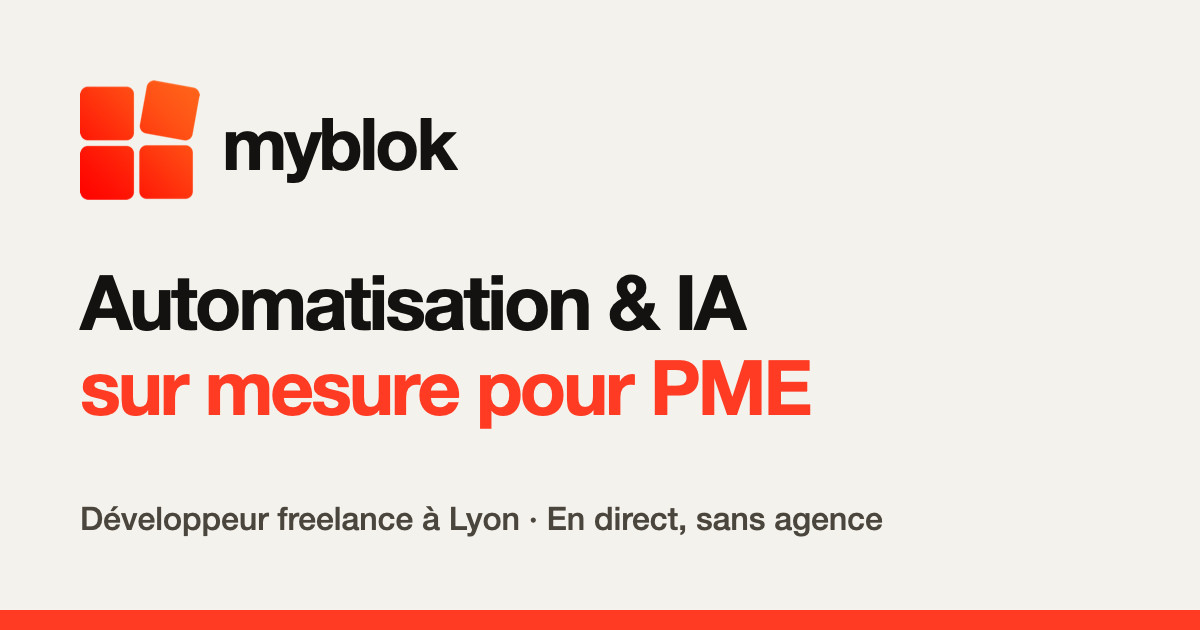
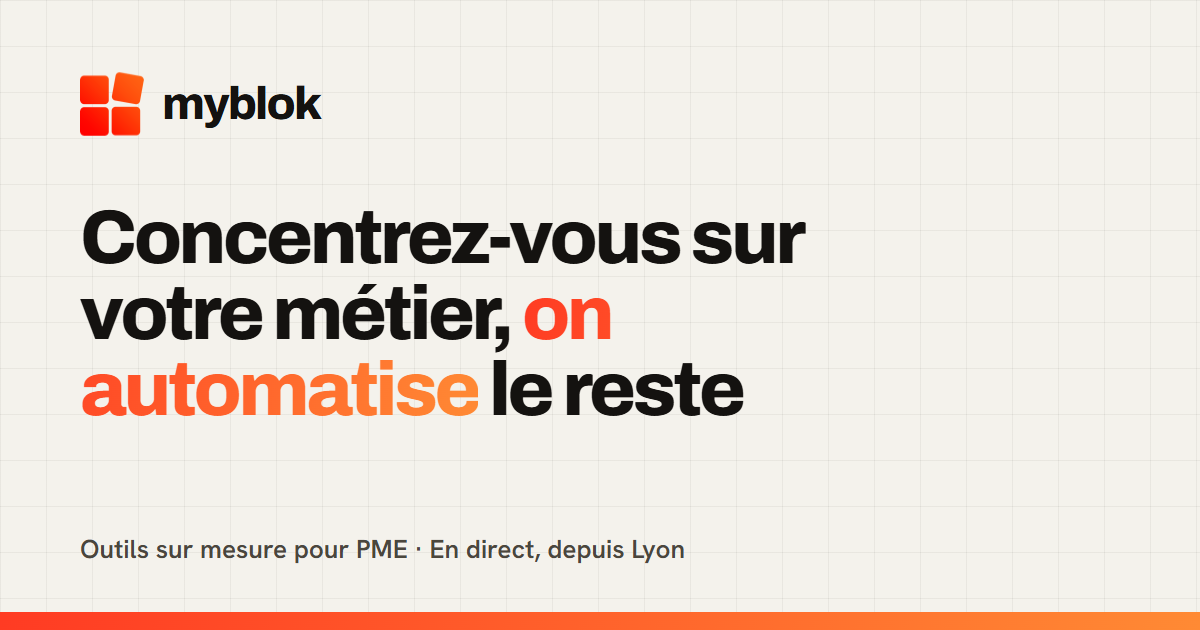
feat: update content for bilingual support and improve navigation structure

Changed region(s): [[0.0617, 0.1206, 0.6783, 0.6937], [0.0617, 0.7841, 0.74, 0.9048], [0.0, 0.9651, 1.0, 1.0]]

diff --git a/src/content/fr.js b/src/content/fr.js
@@ -1,13 +1,15 @@
 import { LEGAL } from './legal.js'
 
 export default {
+  // Ancres des sections de l'accueil (/fr#offre…). Ne pas renommer : d'anciens liens y pointent.
+  anchors: { top: 'top', offer: 'offre', realisations: 'realisations', process: 'process', about: 'apropos', faq: 'faq', contact: 'contact' },
   nav: {
     // L'entrée « realisations » n'apparaît que s'il y a au moins un projet dans realisations.js.
     links: [
-      { id: 'offre', label: "Ce qu'on fait" },
-      { id: 'realisations', label: 'Réalisations' },
-      { id: 'process', label: 'Comment ça marche' },
-      { id: 'faq', label: 'FAQ' },
+      { key: 'offer', label: "Ce qu'on fait" },
+      { key: 'realisations', label: 'Réalisations' },
+      { key: 'process', label: 'Comment ça se passe' },
+      { key: 'faq', label: 'FAQ' },
     ],
     cta: 'Nous contacter',
   },
@@ -24,14 +26,14 @@ export default {
   },
   problem: {
     title: 'Ça vous parle ?',
-    intro: "Des situations qu'on retrouve dans presque toutes les PME.",
+    intro: 'Vous vous reconnaissez sûrement dans l’une d’elles : on les retrouve dans presque toutes les PME.',
     items: [
       { icon: 'repeat', title: 'Les mêmes infos tapées deux fois', desc: 'Une commande arrive par mail, vous la recopiez dans le logiciel de facturation, puis dans un tableau Excel.' },
       { icon: 'sheet', title: 'Le fichier Excel qui fait tout tourner', desc: 'Un tableur bricolé au fil des années, que seule une personne sait vraiment utiliser.' },
       { icon: 'bell', title: 'Les relances à la main', desc: 'Devis en attente, factures impayées, rappels de rendez-vous : tout repose sur votre mémoire.' },
       { icon: 'puzzle', title: 'Le logiciel qui ne colle pas', desc: 'Vous payez un abonnement pour un outil qui vous oblige à contourner sa logique tous les jours.' },
     ],
-    foot: "Ces heures-là peuvent être récupérées. C'est notre métier.",
+    foot: "Tout ce temps-là peut être récupéré. C'est notre métier.",
   },
   offer: {
     title: "Ce qu'on fait",
@@ -108,6 +110,7 @@ export default {
   contact: {
     title: 'Parlons de votre besoin',
     subtitle: 'Décrivez votre situation en deux lignes. On vous répond sous 48 h.',
+    next: 'Ensuite, on vous propose un appel de 30 minutes, gratuit et sans engagement, pour bien comprendre votre besoin.',
     name: 'Votre nom',
     company: 'Votre entreprise',
     optional: 'facultatif',
@@ -149,7 +152,7 @@ export default {
         ['Données collectées', 'Votre nom, votre adresse email, le nom de votre entreprise si vous le donnez, et le contenu de votre message. Rien d’autre : aucune donnée récupérée à votre insu.'],
         ['Finalité', 'Répondre à votre demande et, si ça débouche sur un projet, préparer une proposition. Pas de prospection non sollicitée, pas de revente, pas de fichier partagé avec qui que ce soit.'],
         ['Base légale', 'Votre demande elle-même : l’exécution de mesures précontractuelles prises à votre initiative (article 6.1.b du RGPD).'],
-        ['Destinataires', `Baptiste, et personne d’autre. L’acheminement de l’email passe par notre prestataire d’envoi ${LEGAL.mailProvider}, encadré par un accord de sous-traitance et les clauses contractuelles types de la Commission européenne.`],
+        ['Destinataires', `L’équipe myblok (deux personnes), et personne d’autre. L’acheminement de l’email passe par notre prestataire d’envoi ${LEGAL.mailProvider}, encadré par un accord de sous-traitance et les clauses contractuelles types de la Commission européenne.`],
         ['Hébergement', 'Le site et le formulaire sont hébergés par Vercel Inc. (États-Unis), sous le même encadrement contractuel.'],
         ['Conservation', 'Trois ans à compter de notre dernier échange, puis suppression. Si une prestation démarre, les données liées sont gardées le temps de la mission et des obligations comptables et légales qui en découlent.'],
         ['Cookies et mesure d’audience', 'Aucun cookie. On mesure la fréquentation du site avec Vercel Web Analytics, de façon anonyme et agrégée : pas de cookie, pas d’identification personnelle, pas de suivi d’un site à l’autre. Pas de publicité ni de bouton de réseau social. Seul votre choix de thème est mémorisé dans votre navigateur : cette information ne quitte jamais votre appareil et ne nécessite pas de consentement.'],

diff --git a/src/content/en.js b/src/content/en.js
@@ -1,12 +1,13 @@
 import { LEGAL } from './legal.js'
 
 export default {
+  anchors: { top: 'top', offer: 'services', realisations: 'projects', process: 'how-it-works', about: 'about', faq: 'faq', contact: 'contact' },
   nav: {
     links: [
-      { id: 'offre', label: 'What we do' },
-      { id: 'realisations', label: 'Projects' },
-      { id: 'process', label: 'How it works' },
-      { id: 'faq', label: 'FAQ' },
+      { key: 'offer', label: 'What we do' },
+      { key: 'realisations', label: 'Projects' },
+      { key: 'process', label: 'How it works' },
+      { key: 'faq', label: 'FAQ' },
     ],
     cta: 'Contact us',
   },
@@ -22,14 +23,14 @@ export default {
   },
   problem: {
     title: 'Sound familiar?',
-    intro: 'Situations we see in almost every small business.',
+    intro: 'Chances are you recognise one of them: we see them in almost every small business.',
     items: [
       { icon: 'repeat', title: 'The same data typed twice', desc: 'An order comes in by email, you copy it into your invoicing software, then into an Excel sheet.' },
       { icon: 'sheet', title: 'The Excel file that runs everything', desc: 'A spreadsheet patched together over the years that only one person really knows how to use.' },
       { icon: 'bell', title: 'Chasing everything by hand', desc: 'Pending quotes, unpaid invoices, appointment reminders: it all relies on your memory.' },
       { icon: 'puzzle', title: "Software that doesn't fit", desc: 'You pay a subscription for a tool you have to work around every single day.' },
     ],
-    foot: "Those hours can be won back. That's what we do.",
+    foot: "All that time can be won back. That's what we do.",
   },
   offer: {
     title: 'What we do',
@@ -106,6 +107,7 @@ export default {
   contact: {
     title: "Let's talk about your needs",
     subtitle: 'Describe your situation in two lines. We reply within 48 hours.',
+    next: 'Then we suggest a free, no-commitment 30-minute call to properly understand your need.',
     name: 'Your name',
     company: 'Your company',
     optional: 'optional',
@@ -147,7 +149,7 @@ export default {
         ['Data collected', 'Your name, your email address, your company name if you provide it, and the content of your message. Nothing else: no data gathered without your knowledge.'],
         ['Purpose', 'Answering your enquiry and, if it turns into a project, preparing a proposal. No unsolicited marketing, no resale, no list shared with anyone.'],
         ['Legal basis', 'Your own request: steps taken at your request prior to entering into a contract (Article 6(1)(b) GDPR).'],
-        ['Recipients', `Baptiste, and no one else. The email is delivered through our sending provider ${LEGAL.mailProvider}, covered by a data processing agreement and the European Commission’s standard contractual clauses.`],
+        ['Recipients', `The myblok team (two people), and no one else. The email is delivered through our sending provider ${LEGAL.mailProvider}, covered by a data processing agreement and the European Commission’s standard contractual clauses.`],
         ['Hosting', 'The site and the form are hosted by Vercel Inc. (USA), under the same contractual framework.'],
         ['Retention', 'Three years from our last exchange, then deletion. If an engagement starts, the related data is kept for the duration of the work and the accounting and legal obligations that follow.'],
         ['Cookies and analytics', 'No cookies. We measure site traffic with Vercel Web Analytics, anonymously and in aggregate: no cookies, no personal identification, no tracking across sites. No advertising, no social widgets. Only your theme choice is stored in your browser: it never leaves your device and requires no consent.'],

diff --git a/src/seo.js b/src/seo.js
@@ -8,6 +8,8 @@ export const SITE_URL = 'https://www.myblok.fr'
 
 const OG_LOCALE = { fr: 'fr_FR', en: 'en_GB' }
 const PRICE_RANGE = { fr: 'Sur devis', en: 'Quote-based' }
+// Share image per language (public/), showing the hero title.
+const OG_IMAGE = { fr: '/og-image.png', en: '/og-image-en.png' }
 
 const escapeAttr = (value) =>
   String(value).replaceAll('&', '&amp;').replaceAll('"', '&quot;').replaceAll('<', '&lt;').replaceAll('>', '&gt;')
@@ -42,7 +44,7 @@ function structuredData(t, url) {
         description: t.meta.home.description,
         url,
         logo: `${SITE_URL}/icon-512.png`,
-        image: `${SITE_URL}/og-image.png`,
+        image: SITE_URL + OG_IMAGE[t.lang],
         email: LEGAL.email,
         priceRange: PRICE_RANGE[t.lang],
         address: { '@type': 'PostalAddress', addressLocality: 'Lyon', addressRegion: 'Auvergne-Rhône-Alpes', addressCountry: 'FR' },
@@ -66,17 +68,20 @@ function structuredData(t, url) {
 export function headTags(route) {
   const t = content[route.lang]
   const { title, description } = pageMeta(route, t)
+  const imageAlt = `myblok — ${t.hero.pre} ${t.hero.grad} ${t.hero.post}`
   const tags = [
     `<title>${escapeAttr(title)}</title>`,
     meta('name', 'description', description),
     meta('property', 'og:title', title),
     meta('property', 'og:description', description),
-    // Same share image on every page: describe the image, not the page.
-    meta('property', 'og:image:alt', t.meta.home.title),
+    meta('property', 'og:image', SITE_URL + OG_IMAGE[route.lang]),
+    // Same share image on every page of a language: describe the image, not the page.
+    meta('property', 'og:image:alt', imageAlt),
     meta('property', 'og:locale', OG_LOCALE[route.lang]),
     meta('name', 'twitter:title', title),
     meta('name', 'twitter:description', description),
-    meta('name', 'twitter:image:alt', t.meta.home.title),
+    meta('name', 'twitter:image', SITE_URL + OG_IMAGE[route.lang]),
+    meta('name', 'twitter:image:alt', imageAlt),
   ]
 
   if (route.name === 'notFound') {

diff --git a/src/pages/NotFound.jsx b/src/pages/NotFound.jsx
@@ -1,16 +1,29 @@
 import { Icon } from '../components/common.jsx'
-import { pagePath } from '../routes.js'
+import { content } from '../content/index.js'
+import { LANGS, pagePath } from '../routes.js'
 
+// Vercel serves one 404 page for the whole site, whatever the language of the
+// URL: the message is shown in every language, the current one first.
 export default function NotFound({ t }) {
-  const { notFound } = t
+  const langs = [t.lang, ...LANGS.filter((l) => l !== t.lang)]
   return (
     <section className="section page" aria-labelledby="page-title">
       <div className="container">
-        <h1 id="page-title" className="section-title">{notFound.title}</h1>
-        <p className="section-intro">{notFound.text}</p>
-        <p className="page-actions">
-          <a href={pagePath('home', t.lang)} className="btn btn-primary">{notFound.back} <Icon.arrow /></a>
-        </p>
+        {langs.map((lang, i) => {
+          const { notFound } = content[lang]
+          const Title = i === 0 ? 'h1' : 'h2'
+          return (
+            <div key={lang} lang={lang} className={i === 0 ? '' : 'page-alt-lang'}>
+              <Title id={i === 0 ? 'page-title' : undefined} className="section-title">{notFound.title}</Title>
+              <p className="section-intro">{notFound.text}</p>
+              <p className="page-actions">
+                <a href={pagePath('home', lang)} className={i === 0 ? 'btn btn-primary' : 'btn btn-ghost'}>
+                  {notFound.back} <Icon.arrow />
+                </a>
+              </p>
+            </div>
+          )
+        })}
       </div>
     </section>
   )

diff --git a/index.html b/index.html
@@ -20,24 +20,15 @@
     <link rel="apple-touch-icon" href="/apple-touch-icon.png" />
     <link rel="manifest" href="/site.webmanifest" />
 
-    <link rel="preconnect" href="https://fonts.googleapis.com" />
-    <link rel="preconnect" href="https://fonts.gstatic.com" crossorigin />
-    <link
-      href="https://fonts.googleapis.com/css2?family=Archivo:wght@700;800&family=Hanken+Grotesk:wght@400;500;600;700;800&display=swap"
-      rel="stylesheet"
-    />
-
     <!-- Open Graph / réseaux sociaux -->
     <meta property="og:type" content="website" />
     <meta property="og:site_name" content="myblok" />
-    <meta property="og:image" content="https://www.myblok.fr/og-image.png" />
     <meta property="og:image:type" content="image/png" />
     <meta property="og:image:width" content="1200" />
     <meta property="og:image:height" content="630" />
 
     <!-- Twitter Card -->
     <meta name="twitter:card" content="summary_large_image" />
-    <meta name="twitter:image" content="https://www.myblok.fr/og-image.png" />
 
     <!-- Sans JS, le contenu prérendu reste visible (les .reveal sont masqués jusqu'à l'animation) -->
     <noscript><style>.reveal { opacity: 1 !important; transform: none !important; }</style></noscript>

diff --git a/src/sections/Hero.jsx b/src/sections/Hero.jsx
@@ -5,10 +5,10 @@ export default function Hero({ t }) {
   const { hero } = t
   // Until a project is published, the secondary button points to the method instead.
   const secondary = realisations.length > 0
-    ? { href: '#realisations', label: hero.ctaRealisations }
-    : { href: '#process', label: hero.ctaProcess }
+    ? { href: `#${t.anchors.realisations}`, label: hero.ctaRealisations }
+    : { href: `#${t.anchors.process}`, label: hero.ctaProcess }
   return (
-    <header id="top" className="hero section">
+    <header id={t.anchors.top} className="hero section">
       <div className="container hero-grid">
         <div className="hero-copy">
           <h1 className="hero-title">
@@ -16,7 +16,7 @@ export default function Hero({ t }) {
           </h1>
           <p className="hero-sub">{hero.sub}</p>
           <div className="hero-cta">
-            <a href="#contact" className="btn btn-primary">{hero.ctaPrimary} <Icon.arrow /></a>
+            <a href={`#${t.anchors.contact}`} className="btn btn-primary">{hero.ctaPrimary} <Icon.arrow /></a>
             <a href={secondary.href} className="btn btn-ghost">{secondary.label}</a>
           </div>
           <p className="hero-note">{hero.note}</p>

diff --git a/src/components/Footer.jsx b/src/components/Footer.jsx
@@ -3,8 +3,8 @@ import { pagePath, homeSection } from '../routes.js'
 
 export default function Footer({ t }) {
   const { footer, lang } = t
-  const navLabel = (id) => t.nav.links.find((l) => l.id === id)?.label
-  const sections = ['offre', ...(realisations.length > 0 ? ['realisations'] : []), 'faq']
+  const navLabel = (key) => t.nav.links.find((l) => l.key === key)?.label
+  const sections = ['offer', ...(realisations.length > 0 ? ['realisations'] : []), 'faq']
 
   return (
     <footer className="footer">
@@ -22,8 +22,8 @@ export default function Footer({ t }) {
             </p>
           </div>
           <nav className="footer-links" aria-label="Footer">
-            {sections.map((id) => (
-              <a key={id} href={homeSection(lang, id)}>{navLabel(id)}</a>
+            {sections.map((key) => (
+              <a key={key} href={homeSection(lang, key)}>{navLabel(key)}</a>
             ))}
             <a href={homeSection(lang, 'contact')}>{footer.contactLink}</a>
           </nav>

diff --git a/src/components/Nav.jsx b/src/components/Nav.jsx
@@ -8,7 +8,7 @@ export default function Nav({ t, theme, toggleTheme, altHref }) {
   const [open, setOpen] = useState(false)
   const { lang } = t
   const altLang = lang === 'fr' ? 'en' : 'fr'
-  const links = t.nav.links.filter((l) => l.id !== 'realisations' || realisations.length > 0)
+  const links = t.nav.links.filter((l) => l.key !== 'realisations' || realisations.length > 0)
   return (
     <div className="nav-wrap">
       <div className="container">
@@ -20,7 +20,7 @@ export default function Nav({ t, theme, toggleTheme, altHref }) {
 
           <div className={`nav-links ${open ? 'open' : ''}`}>
             {links.map((l) => (
-              <a key={l.id} href={homeSection(lang, l.id)} onClick={() => setOpen(false)}>{l.label}</a>
+              <a key={l.key} href={homeSection(lang, l.key)} onClick={() => setOpen(false)}>{l.label}</a>
             ))}
           </div>
 

diff --git a/src/styles.css b/src/styles.css
@@ -632,6 +632,13 @@ h3 {
 	font-size: 17px;
 	max-width: 34ch;
 }
+.contact-next {
+	margin-top: 12px;
+	color: var(--ink-2);
+	font-size: 15px;
+	max-width: 38ch;
+	line-height: 1.55;
+}
 .contact-direct {
 	margin-top: 26px;
 	font-size: 14px;
@@ -997,6 +1004,31 @@ h3 {
 }
 .page-actions {
 	margin-top: 28px;
+}
+.page-alt-lang {
+	margin-top: 56px;
+	padding-top: 40px;
+	border-top: 1.5px solid var(--line);
+}
+.page-alt-lang .section-title {
+	font-size: clamp(22px, 3vw, 32px);
+}
+.page-gallery {
+	margin-top: 34px;
+	display: grid;
+	grid-template-columns: repeat(auto-fit, minmax(280px, 1fr));
+	gap: 18px;
+}
+.page-gallery figure {
+	margin: 0;
+}
+.page-gallery img {
+	display: block;
+	width: 100%;
+	height: auto;
+	border: 1.5px solid var(--ink);
+	border-radius: var(--radius-sm);
+	background: var(--pap-2);
 }
 
 /* ======================================================

diff --git a/src/routes.js b/src/routes.js
@@ -1,4 +1,4 @@
-import { realisations } from './content/index.js'
+import { content, realisations } from './content/index.js'
 
 // Every page is a real, prerendered HTML file (see scripts/prerender.js): links
 // between pages are plain <a href>, no client-side router needed.
@@ -20,8 +20,8 @@ export function pagePath(name, lang, slug) {
   return `/${lang}/${SLUGS[name][lang]}`
 }
 
-// Link to a section of the home page, valid from any page.
-export const homeSection = (lang, id) => `/${lang}#${id}`
+// Link to a section of the home page (key from `anchors` in the content files), valid from any page.
+export const homeSection = (lang, key) => `/${lang}#${content[lang].anchors[key]}`
 
 // Maps a URL path to the page to render. Unknown paths render the 404 page.
 export function matchRoute(pathname) {

diff --git a/src/content/realisations.js b/src/content/realisations.js
@@ -3,7 +3,10 @@
 // Uniquement des projets réels ; le nom du client seulement avec son accord.
 //
 // {
-//   slug: 'suivi-de-chantier',          // URL : /realisations/suivi-de-chantier
+//   slug: 'suivi-de-chantier',          // URL : /fr/realisations/suivi-de-chantier, /en/projects/suivi-de-chantier
+//   images: [                           // facultatif : captures sans données sensibles,
+//     { src: '/realisations/suivi-de-chantier/1.webp', alt: { fr: '…', en: '…' } },  // fichiers dans public/realisations/<slug>/
+//   ],
 //   fr: {
 //     title: '…',                       // titre de la page et de la carte
 //     sector: '…',                      // ex. « PME du BTP, 15 salariés »

diff --git a/src/sections/Contact.jsx b/src/sections/Contact.jsx
@@ -42,11 +42,12 @@ export default function Contact({ t }) {
   }
 
   return (
-    <section id="contact" className="section" aria-labelledby="contact-title">
+    <section id={t.anchors.contact} className="section" aria-labelledby="contact-title">
       <div className="container contact-wrap">
         <Reveal className="contact-left">
           <h2 id="contact-title">{contact.title}</h2>
           <p className="contact-sub">{contact.subtitle}</p>
+          <p className="contact-next">{contact.next}</p>
           <p className="contact-direct">
             {contact.or} <a href={`mailto:${CONTACT_EMAIL}`}>{CONTACT_EMAIL}</a>
           </p>
